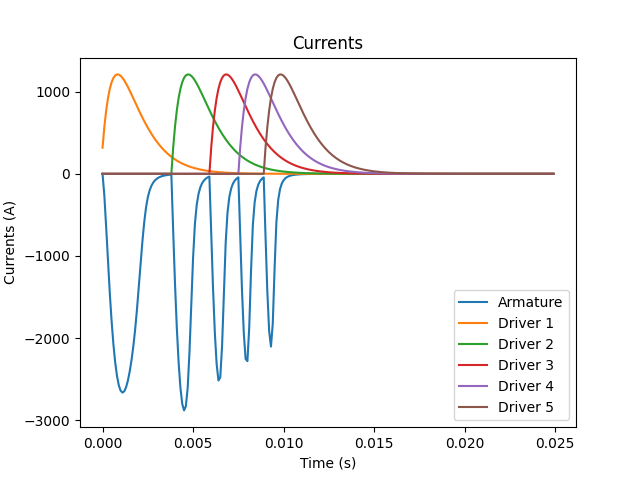
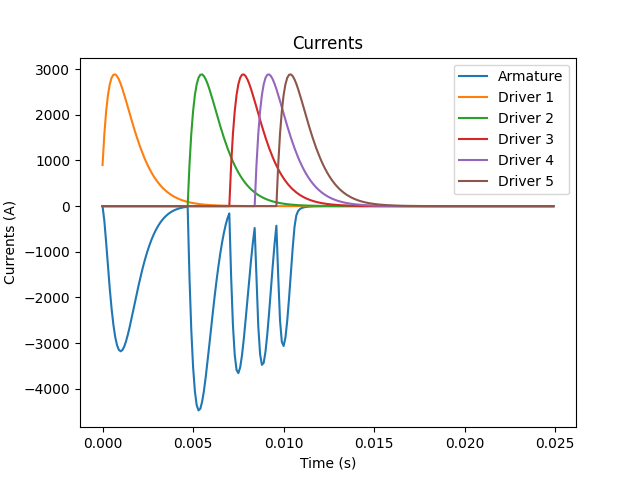
Refined mutual inductance calculation, added temperature plottings

diff --git a/Simulation/main.py b/Simulation/main.py
@@ -8,34 +8,27 @@ copper = parameters.copper
 
 # Coils
 # Material, inner radius, length, layers, wire diameter):
-armature = classes.Coil(copper, 0.0125, 0.05, 1, 0.00129)
+armature = classes.Coil(copper, 0.0125, 0.1, 1, 0.00205)
 
-driver1 = classes.Coil(copper, 0.015, 0.05, 3, 0.00129)
-driver2 = classes.Coil(copper, 0.015, 0.05, 3, 0.00129)
-driver3 = classes.Coil(copper, 0.015, 0.05, 3, 0.00129)
-driver4 = classes.Coil(copper, 0.015, 0.05, 3, 0.00129)
-driver5 = classes.Coil(copper, 0.015, 0.05, 3, 0.00129)
+driver1 = classes.Coil(copper, 0.015, 0.1, 2, 0.00205)
+driver2 = classes.Coil(copper, 0.015, 0.1, 2, 0.00205)
+driver3 = classes.Coil(copper, 0.015, 0.1, 2, 0.00205)
+driver4 = classes.Coil(copper, 0.015, 0.1, 2, 0.00205)
+driver5 = classes.Coil(copper, 0.015, 0.1, 2, 0.00205)
 
 # Stages
 # Coil, position, trigger position, capacitance, voltage
-stage1 = classes.Stage(driver1, 0.0, 0.0, 0.00306, 1000)
-stage2 = classes.Stage(driver2, 0.1, 0.1, 0.00306, 1000)
-stage3 = classes.Stage(driver3, 0.2, 0.2, 0.00306, 1000)
-stage4 = classes.Stage(driver4, 0.3, 0.3, 0.00306, 1000)
-stage5 = classes.Stage(driver5, 0.4, 0.4, 0.00306, 1000)
+stage1 = classes.Stage(driver1, 0.0, 0.0, 0.003 * 2, 1000)
+stage2 = classes.Stage(driver2, 0.1, 0.1, 0.003 * 2, 1000)
+stage3 = classes.Stage(driver3, 0.2, 0.2, 0.003 * 2, 1000)
+stage4 = classes.Stage(driver4, 0.3, 0.3, 0.003 * 2, 1000)
+stage5 = classes.Stage(driver5, 0.4, 0.4, 0.003 * 2, 1000)
 
 # Projectile
 # Coil, position, mass
 projectile = classes.Projectile(armature, 0.01, 0.1)
 
-
 stage_list = [stage1, stage2, stage3, stage4, stage5]
-velocities = []
-accelerations = []
-positions = []
-
-armature_energy = []
-driver_energy = []
 efficiency = []
 
 runtime = 0.025
@@ -45,32 +38,26 @@ for step in np.arange(0, runtime, timestep):
     # Timestep, step, driver list, projectile
     output = run.run_turn(timestep, stage_list, projectile)
 
-    velocities.append(output[0].vel)
-    accelerations.append(output[0].accel)
-    positions.append(output[0].pos)
-
-    armature_energy.append(armature.energy)
     driver_energy_sum = driver1.energy + driver2.energy + driver3.energy + driver4.energy + driver5.energy
-    driver_energy.append(driver_energy_sum)
     efficiency.append(armature.energy / driver_energy_sum + 0.001)
 
 
 time = np.arange(0, runtime, timestep)
 
-figp, p = plt.subplots()
-p.plot(time, positions)
-p.set(xlabel='Time (s)', ylabel='Position (m)', title='Projectile Position')
-figp.savefig("pos.png")
+# figp, p = plt.subplots()
+# p.plot(time, projectile.position_list)
+# p.set(xlabel='Time (s)', ylabel='Position (m)', title='Projectile Position')
+# figp.savefig("pos.png")
 
 figv, v = plt.subplots()
-v.plot(time, velocities)
+v.plot(time, projectile.velocity_list)
 v.set(xlabel='Time (s)', ylabel='Velocity (m/s)', title='Projectile Velocity')
 figv.savefig("vel.png")
 
-figa, p = plt.subplots()
-p.plot(time, accelerations)
-p.set(xlabel='Time (s)', ylabel='Acceleration (m/s^2)', title='Projectile Acceleration')
-figa.savefig("accel.png")
+# figa, p = plt.subplots()
+# p.plot(time, projectile.acceleration_list)
+# p.set(xlabel='Time (s)', ylabel='Acceleration (m/s^2)', title='Projectile Acceleration')
+# figa.savefig("accel.png")
 
 figi, i = plt.subplots()
 i.plot(time, projectile.coil.currents_list)
@@ -86,12 +73,20 @@ n.set(xlabel='Time (s)', ylabel='Efficiency', title='Coilgun Efficiency')
 fign.savefig("efficiency.png")
 
 fige, e = plt.subplots()
-e.plot(time, armature_energy)
+e.plot(time, projectile.coil.energy_list)
 for stage in range(len(stage_list)):
     e.plot(time, stage_list[stage].coil.energy_list)
 e.set(xlabel='Time (s)', ylabel='Energy (J)', title='Energy')
 e.legend(['Armature', 'Driver 1', 'Driver 2', 'Driver 3', 'Driver 4', 'Driver 5'])
 fige.savefig("energy.png")
+
+# figt, t = plt.subplots()
+# t.plot(time, projectile.coil.temperature_list)
+# for stage in range(len(stage_list)):
+#     t.plot(time, stage_list[stage].coil.temperature_list)
+# t.set(xlabel='Time (s)', ylabel='Temperature (K)', title='Temperature')
+# t.legend(['Armature', 'Driver 1', 'Driver 2', 'Driver 3', 'Driver 4', 'Driver 5'])
+# figt.savefig("temperature.png")
 
 
 plt.show()

diff --git a/Simulation/methods.py b/Simulation/methods.py
@@ -6,17 +6,22 @@ def mutual_inductance(stage, projectile):
     coil1 = stage.coil
     coil2 = projectile.coil
     M = 0
-    for i in range(int(coil1.turns)):
-        for j in range(int(coil2.turns)):
-            pos_i = stage.pos - coil1.length / 2 + coil1.wire_d / coil1.layers * i
-            pos_j = projectile.pos - coil1.length / 2 + coil2.wire_d / coil1.layers * j
-            z = pos_i - pos_j
 
-            k = 2*math.sqrt(coil1.r_avg * coil2.r_avg) / math.sqrt(pow((coil1.r_avg + coil2.r_avg), 2) + pow(z, 2))
-            k_k = sp.special.ellipk(pow(k, 2))
-            k_e = sp.special.ellipe(pow(k, 2))
+    for l1 in range(coil1.layers):
+        r1_eff = coil1.r_inner + l1 * coil1.wire_d
+        for l2 in range(coil2.layers):
+            r2_eff = coil2.r_inner + l2 * coil2.wire_d
+            for i in range(coil1.layer_turns[l1]):
+                for j in range(coil2.layer_turns[l2]):
+                    pos_i = stage.pos - coil1.length / 2 + coil1.wire_d * i
+                    pos_j = projectile.pos - coil2.length / 2 + coil2.wire_d * j
+                    z = pos_i - pos_j
 
-            M = M + (-parameters.mu0 * math.sqrt(coil1.r_avg * coil2.r_avg) * ((k - 2 / k) * k_k + 2 / k * k_e))
+                    k = 2 * math.sqrt(r1_eff * r2_eff) / math.sqrt(pow((r1_eff + r2_eff), 2) + pow(z, 2))
+                    k_k = sp.special.ellipk(pow(k, 2))
+                    k_e = sp.special.ellipe(pow(k, 2))
+
+                    M += -parameters.mu0 * math.sqrt(r1_eff * r2_eff) * ((k - 2 / k) * k_k + 2 / k * k_e)
 
     return M
 
@@ -37,7 +42,6 @@ def increment_time(timestep, coil):
 
 def solve_energy(coil, timestep):
     coil_power = pow(coil.current, 2) * coil.resistance
-    coil.temp = coil.temp + coil_power / coil.thermal_mass * timestep
     coil.energy = coil.energy + coil_power * timestep
 
 
@@ -94,5 +98,3 @@ def solve_kinematics(projectile, F, timestep):
     projectile.acceleration_list.append(projectile.accel)
     projectile.velocity_list.append(projectile.vel)
     projectile.position_list.append(projectile.pos)
-
-

diff --git a/Simulation/run_step.py b/Simulation/run_step.py
@@ -5,6 +5,7 @@ driver_currents = []
 def run_turn(timestep, stage_list, projectile):
     armature = projectile.coil
     armature.pos = projectile.pos
+    armature.vel = projectile.vel
     switch = min(projectile.stage, len(stage_list) - 1)
     force = 0
 
@@ -18,6 +19,7 @@ def run_turn(timestep, stage_list, projectile):
 
         methods.increment_time(timestep, driver)
         methods.solve_currents(stage, projectile, driver.time_on, armature.time_on)
+        methods.solve_thermals(driver, timestep)
         methods.solve_energy(driver, timestep)
 
         force += methods.magnetic_force(stage, projectile)
@@ -25,16 +27,19 @@ def run_turn(timestep, stage_list, projectile):
     methods.increment_time(timestep, armature)
     methods.solve_thermals(armature, timestep)
     methods.solve_resistance(armature)
-    methods.solve_kinematics(projectile, force, timestep)
 
+    armature.currents_list.append(armature.current)
+    armature.energy_list.append(armature.energy)
+    armature.temperature_list.append(armature.temp)
+
+    methods.solve_kinematics(projectile, force, timestep)
 
     for stage in stage_list:
         driver = stage.coil
         driver.currents_list.append(driver.current)
         driver.energy_list.append(driver.energy)
+        driver.temperature_list.append(driver.temp)
 
-    armature.currents_list.append(armature.current)
-    armature.energy_list.append(armature.energy)
 
 
 

diff --git a/Simulation/classes.py b/Simulation/classes.py
@@ -12,10 +12,15 @@ class Coil:
 
         self.r_inner = r_inner
         self.length = length
-
         self.layers = layers
         self.wire_d = wire_d
         self.turns = round(length * layers / wire_d)
+
+        self.layer_turns = []
+        for l in range(layers):
+            self.layer_turns.append(round(length / wire_d))
+            print("Layer", l, self.layer_turns[l], "Turns")
+
         self.r_outer = r_inner + (layers - 1) * wire_d
         self.r_avg = (r_inner + self.r_outer) / 2
         self.area = pow(self.r_avg, 2) * np.pi
@@ -33,6 +38,7 @@ class Coil:
 
         self.currents_list = []
         self.energy_list = []
+        self.temperature_list = []
 
         print("Wire Length", self.wire_length, "m")
         print("Wire Mass", self.wire_mass, "kg")
